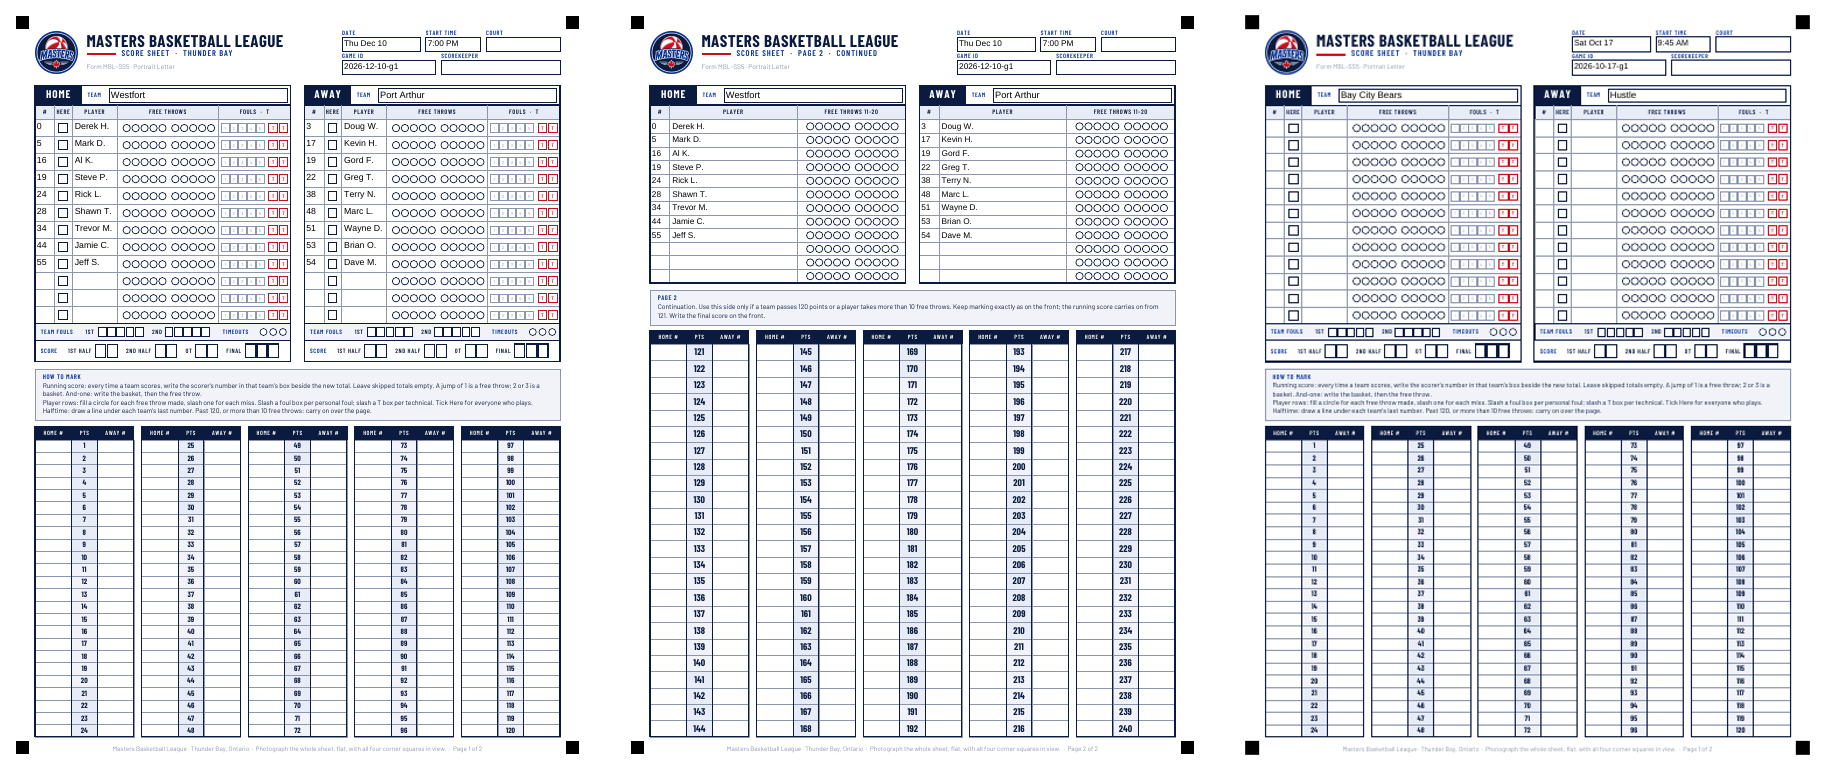
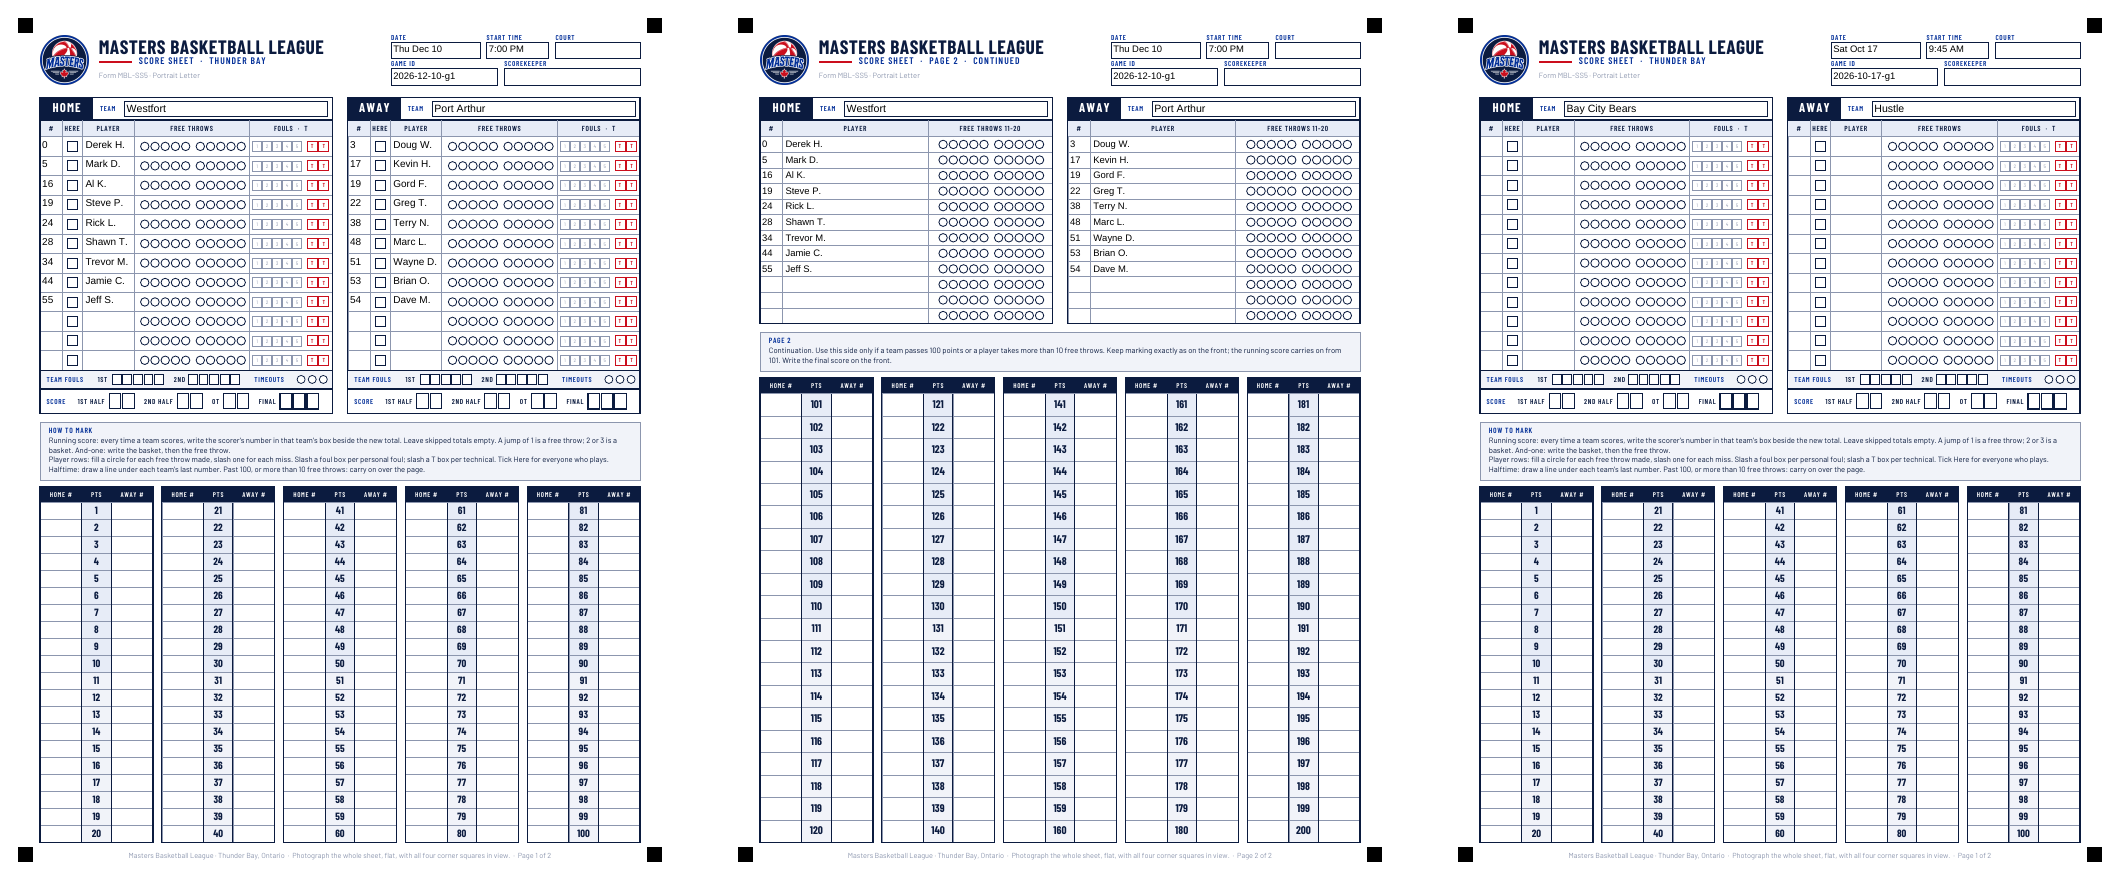
Score sheets: running score 1-100 on page 1, 101-200 on page 2
Claude-Session: https://claude.ai/code/session_01BpF3qcymq2UJaDaLypnPgZ

Changed region(s): [[0.3436, 0.0312, 0.6559, 0.9662], [0.6871, 0.0312, 0.9995, 0.9662], [0.0, 0.0312, 0.3123, 0.9662]]

diff --git a/schedule/index.html b/schedule/index.html
@@ -66,7 +66,7 @@ description: Every game day of the season, with results and upcoming games.
   <section class="page-section" aria-labelledby="sheets-title">
     <h2 class="section-title" id="sheets-title">Score sheets</h2>
     {%- if blank_trimmed != "" %}
-    <p class="table-note">Blank, fillable sheets. Print double-sided: page 2 is only for overflow (past 120 points, or more than 10 free throws).</p>
+    <p class="table-note">Blank, fillable sheets. Print double-sided: page 2 is only for overflow (past 100 points, or more than 10 free throws).</p>
     {{ blank_sheets }}
     {%- else %}
     <p class="empty">The blank score sheets appear here when the site is published.</p>

diff --git a/scripts/scoresheet/scoresheet.py b/scripts/scoresheet/scoresheet.py
@@ -5,8 +5,8 @@ Makes printable, fillable PDF score sheets in four layouts:
 portrait or landscape, Letter or Legal.
 
 Each sheet has two rosters (jersey #, here tick, name, 10 free-throw circles,
-5 personal fouls + 2 technicals) and a running score from 1 to 120, with a
-continuation page (121-240, free throws 11-20) printed on the back: totals in
+5 personal fouls + 2 technicals) and a running score from 1 to 100, with a
+continuation page (101-200, free throws 11-20) printed on the back: totals in
 the middle, home scorer's number on the left, away scorer's on the right.
 
 Usage
@@ -60,7 +60,7 @@ PEN = HexColor("#1F3FB8")      # example handwriting only
 FORM = "MBL-SS5"
 ROSTER_ROWS = 12
 FT_CIRCLES = 10
-MAX_POINTS = 120          # per page; the back page continues 121-240
+MAX_POINTS = 100          # per page; the back page continues 101-200
 PAD = 36
 FID, FID_IN = 14, 16
 SIZES = {"letter": letter, "legal": legal}
@@ -277,12 +277,12 @@ class ScoreSheet:
         "And-one: write the basket, then the free throw.",
         "Player rows: fill a circle for each free throw made, slash one for each miss. Slash a foul box "
         "per personal foul; slash a T box per technical. Tick Here for everyone who plays. "
-        "Halftime: draw a line under each team's last number. Past 120, or more than 10 free throws: "
+        "Halftime: draw a line under each team's last number. Past 100, or more than 10 free throws: "
         "carry on over the page.",
     ]
     BACK_HELP = [
-        "Continuation. Use this side only if a team passes 120 points or a player takes more than 10 free "
-        "throws. Keep marking exactly as on the front; the running score carries on from 121. "
+        "Continuation. Use this side only if a team passes 100 points or a player takes more than 10 free "
+        "throws. Keep marking exactly as on the front; the running score carries on from 101. "
         "Write the final score on the front.",
     ]
 
@@ -344,7 +344,7 @@ class ScoreSheet:
 
     # ---- pages ------------------------------------------------------------------
     def score_sets(self):
-        # portrait letter is the narrowest grid: 5 columns of 24; the rest 4 of 30
+        # portrait letter is the narrowest grid: 5 columns of 20; the rest 4 of 25
         return 5 if (self.orient, self.size) == ("portrait", "letter") else 4
 
     def add_page(self, game=None, example=False, back=True):

diff --git a/scripts/scoresheet/README.md b/scripts/scoresheet/README.md
@@ -14,8 +14,8 @@ The scorekeeper can pick whichever they like. All four have the same parts, so
   - 10 **free throw circles**: filled means made, slashed means missed
   - 5 **personal foul** boxes and 2 red **T** boxes for technicals
 - **Under each roster:** team fouls for each half, timeouts, and the score by half and the final score.
-- **Running score from 1 to 120:** the totals run down the middle, with the home scorer's number on the left and the away scorer's on the right.
-- **Page 2, for printing on the back:** carries on in case it's needed, with the running score from 121 to 240 and free throws 11 to 20 for each player. Leave it out with `--front-only`.
+- **Running score from 1 to 100:** the totals run down the middle, with the home scorer's number on the left and the away scorer's on the right.
+- **Page 2, for printing on the back:** carries on in case it's needed, with the running score from 101 to 200 and free throws 11 to 20 for each player. Leave it out with `--front-only`.
 - **Corner squares** so a photo can be straightened.
 
 ## How stats come from a sheet

diff --git a/docs/stats-workflow.md b/docs/stats-workflow.md
@@ -69,7 +69,7 @@ Every time the site is published:
   an editable field, so last-minute changes can be typed in before printing.
 - **Blank sheets:** all four layouts are at the bottom of the Schedule page.
 
-Print double-sided: page 2 is only for overflow (a team past 120 points, or a
+Print double-sided: page 2 is only for overflow (a team past 100 points, or a
 player past 10 free throws).
 
 ### How stats come from a sheet
